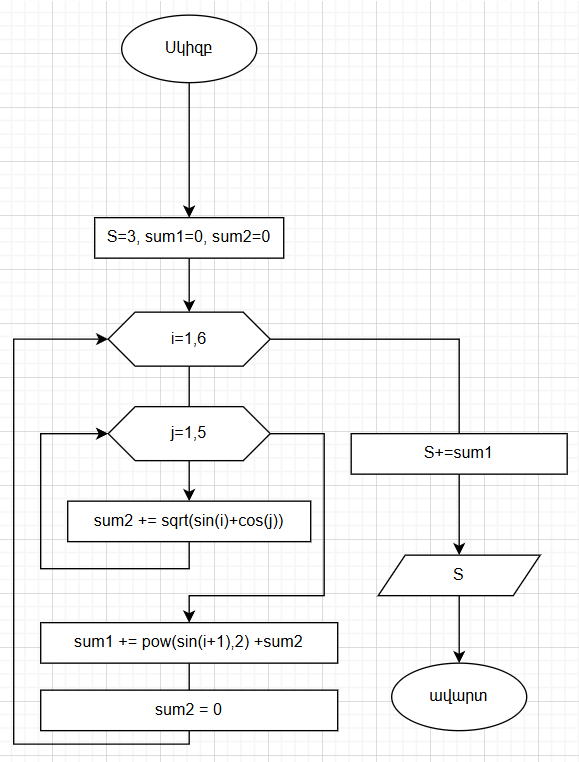
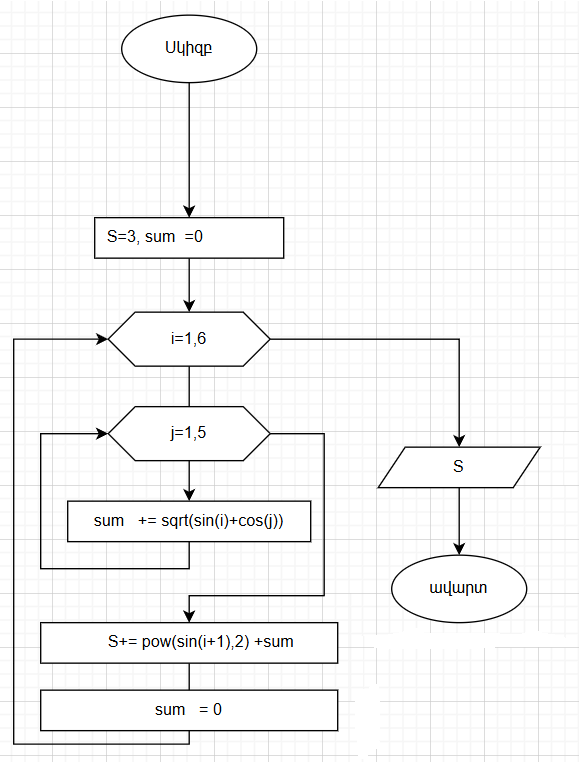
bro why

diff --git a/code/theotherbook/3.7/5.cpp b/code/theotherbook/3.7/5.cpp
@@ -2,16 +2,14 @@
 #include <cmath>
 
 void main() {
-    double S=3, sum1=0, sum2=0;
+    double S=3, sum=0;
     for(int i=1; i<=6; i++) {
         for(int j=1; j<=5; j++) {
-            sum2 += sqrt(sin(i) + cos(j));
+            sum += sqrt(sin(i) + cos(j));
         }
-        sum1 += pow(sin(i+1),2) + sum2;
-        sum2 = 0;
+        S += pow(sin(i+1),2) + sum;
+        sum = 0;
     }
-    
-    S+=sum1;
 
     cout<<S<<endl;
 }
